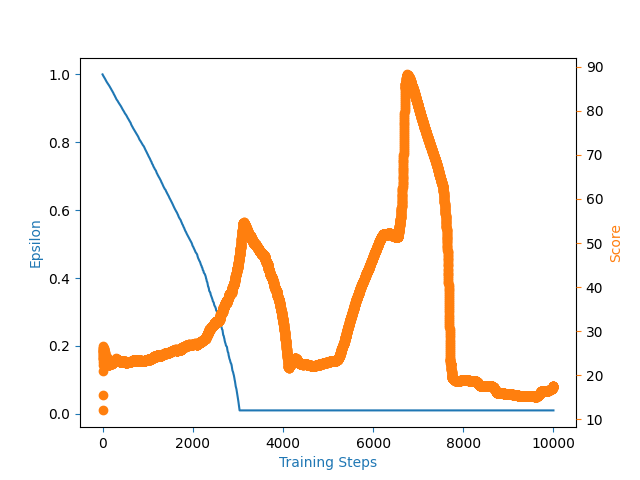
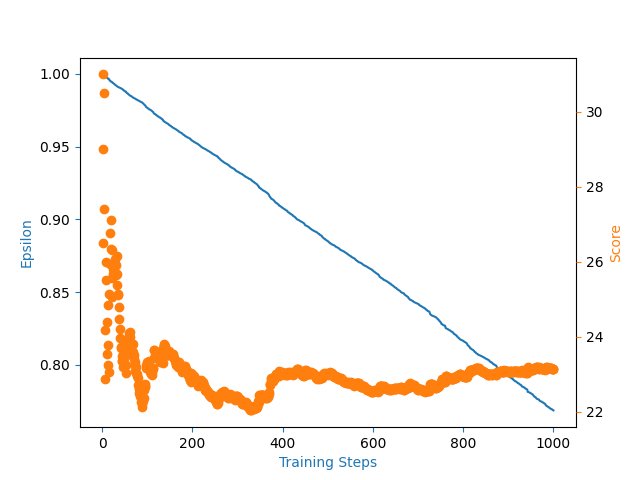
Added some wrappers

diff --git a/Udemy/DeepQ/utils.py b/Udemy/DeepQ/utils.py
@@ -1,0 +1,74 @@
+import matplotlib.pyplot as plt
+import numpy as np
+import collections
+import cv2
+import gym
+
+def plot_learning_curve(x, scores, epsilons, filename):
+    fig = plt.figure()
+    ax = fig.add_subplot(111, label="1")
+    ax2 = fig.add_subplot(111, label="2", frame_on=False)
+
+    ax.plot(x, epsilons, color="C0")
+    ax.set_xlabel("Training Steps", color="C0")
+    ax.set_ylabel("Epsilon", color="C0")
+    ax.tick_params(axis='x', color="C0")
+    ax.tick_params(axis='y', color="C0")
+
+    N = len(scores)
+    running_avg = np.empty(N)
+    for t in range(N):
+        running_avg[t] = np.mean(scores[max(0, t-1000):(t+1)])
+
+    ax2.scatter(x, running_avg, color="C1")
+    ax2.axes.get_xaxis().set_visible(False)
+    ax2.yaxis.tick_right()
+    ax2.set_ylabel('Score', color="C1")
+    ax2.yaxis.set_label_position('right')
+    ax2.tick_params(axis='y', color="C1")
+
+    plt.savefig(filename)
+
+class RepeatActionsAndMaxFrame(gym.Wrapper):
+    def __init__(self, env=None, repeat=4):
+        super(RepeatActionsAndMaxFrame, self).__init__(env)
+        self.repeat = repeat
+        self.shape = env.observation_space.low.shape
+        self.frame_buffer = np.zeros_like((2, self.shape))
+
+    def step(self, action):
+        t_reward = 0.0
+        done = False
+        for i in range(self.repeat):
+            obs, reward, done, info = self.env.steps(action)
+            t_reward += reward
+            idx = i % 2
+            self.frame_buffer[idx] = obs
+            if done:
+                break
+
+        max_frame = np.maximum(self.frame_buffer[0], self.frame_buffer[1])
+        return max_frame, t_reward, done, info
+
+    def reset(self):
+        obs = self.env.reset()
+        self.frame_buffer = np.zeros_like((w, self.shape))
+        self.frame_buffer[0] = obs
+
+        return obs
+
+class PreprocessFrame(gym.ObservationWrapper):
+    def __init__(self, shape, env=None):
+        super(PreprocessFrame, self).__init__(env)
+        self.shape = (shape[2], shape[0], shape[1])
+        self.observation_space = gym.spaces.Box(low=0.0, high=1.0, shape=self.shape, dtype=np.float32)
+
+    def observation(self, obs):
+        new_frame = cv2.cvtColor(obs, cv2.COLOR_RGB2GRAY)
+        resized_screen = cv2.resize(new_frame, self.shape[1:], interpolation=cv2.INTER_AREA)
+        new_obs = np.array(resized_screen, dtype=np.unint8).reshape(self.shape)
+        new_obs = new_obs / 255.0
+
+        return new_obs
+
+

diff --git a/Udemy/DeepQ/main.py b/Udemy/DeepQ/main.py
@@ -4,34 +4,12 @@ import torch.nn as nn
 import torch.nn.functional as F
 import torch.optim as optim
 import torch as T
-import matplotlib.pyplot as plt
+from DeepQ.utils import plot_learning_curve
+
 device = T.device('cuda:0' if T.cuda.is_available() else "cpu")
 print('device:', device)
 
-def plot_learning_curve(x, scores, epsilons, filename):
-    fig = plt.figure()
-    ax = fig.add_subplot(111, label="1")
-    ax2 = fig.add_subplot(111, label="2", frame_on=False)
 
-    ax.plot(x, epsilons, color="C0")
-    ax.set_xlabel("Training Steps", color="C0")
-    ax.set_ylabel("Epsilon", color="C0")
-    ax.tick_params(axis='x', color="C0")
-    ax.tick_params(axis='y', color="C0")
-
-    N = len(scores)
-    running_avg = np.empty(N)
-    for t in range(N):
-        running_avg[t] = np.mean(scores[max(0, t-1000):(t+1)])
-
-    ax2.scatter(x, running_avg, color="C1")
-    ax2.axes.get_xaxis().set_visible(False)
-    ax2.yaxis.tick_right()
-    ax2.set_ylabel('Score', color="C1")
-    ax2.yaxis.set_label_position('right')
-    ax2.tick_params(axis='y', color="C1")
-
-    plt.savefig(filename)
 
 class LinearDeepQNetwork(nn.Module):
     def __init__(self, lr, n_actions, input_dims):
@@ -100,7 +78,7 @@ class Agent():
 
 if __name__ == '__main__':
     env = gym.make('CartPole-v1')
-    n_games = 10000
+    n_games = 1000
     scores = []
     eps_history = []
 
